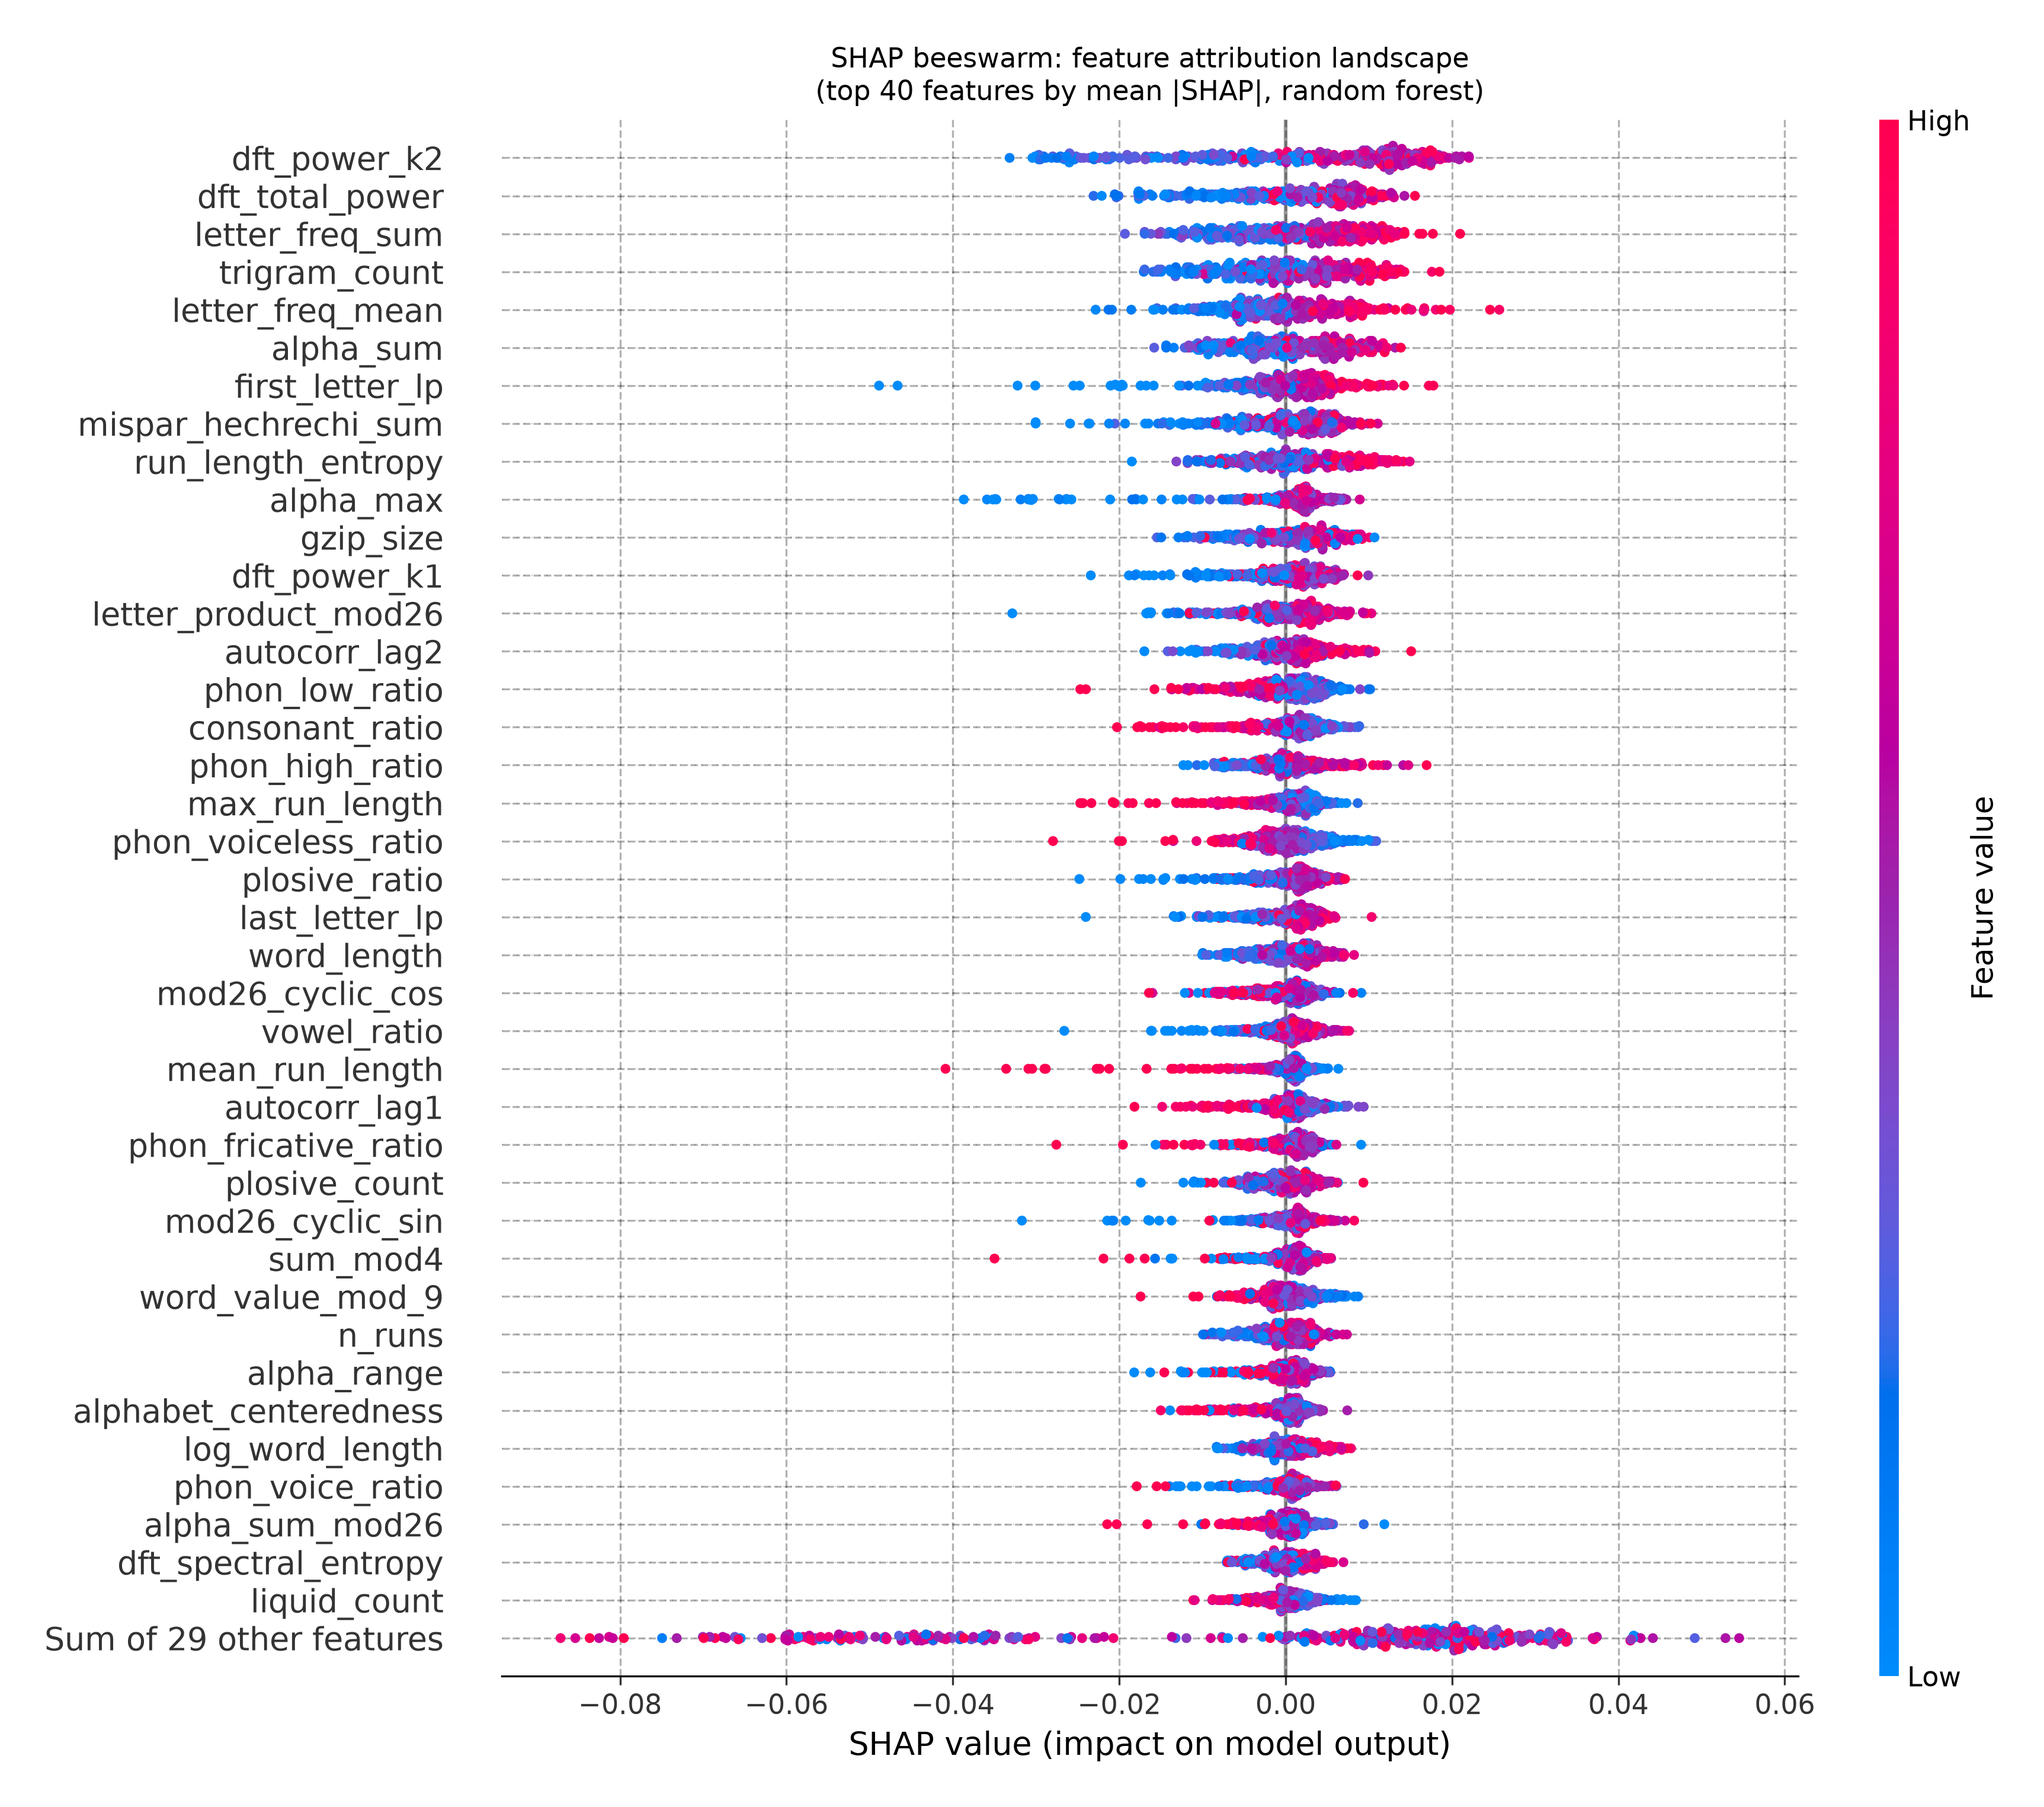
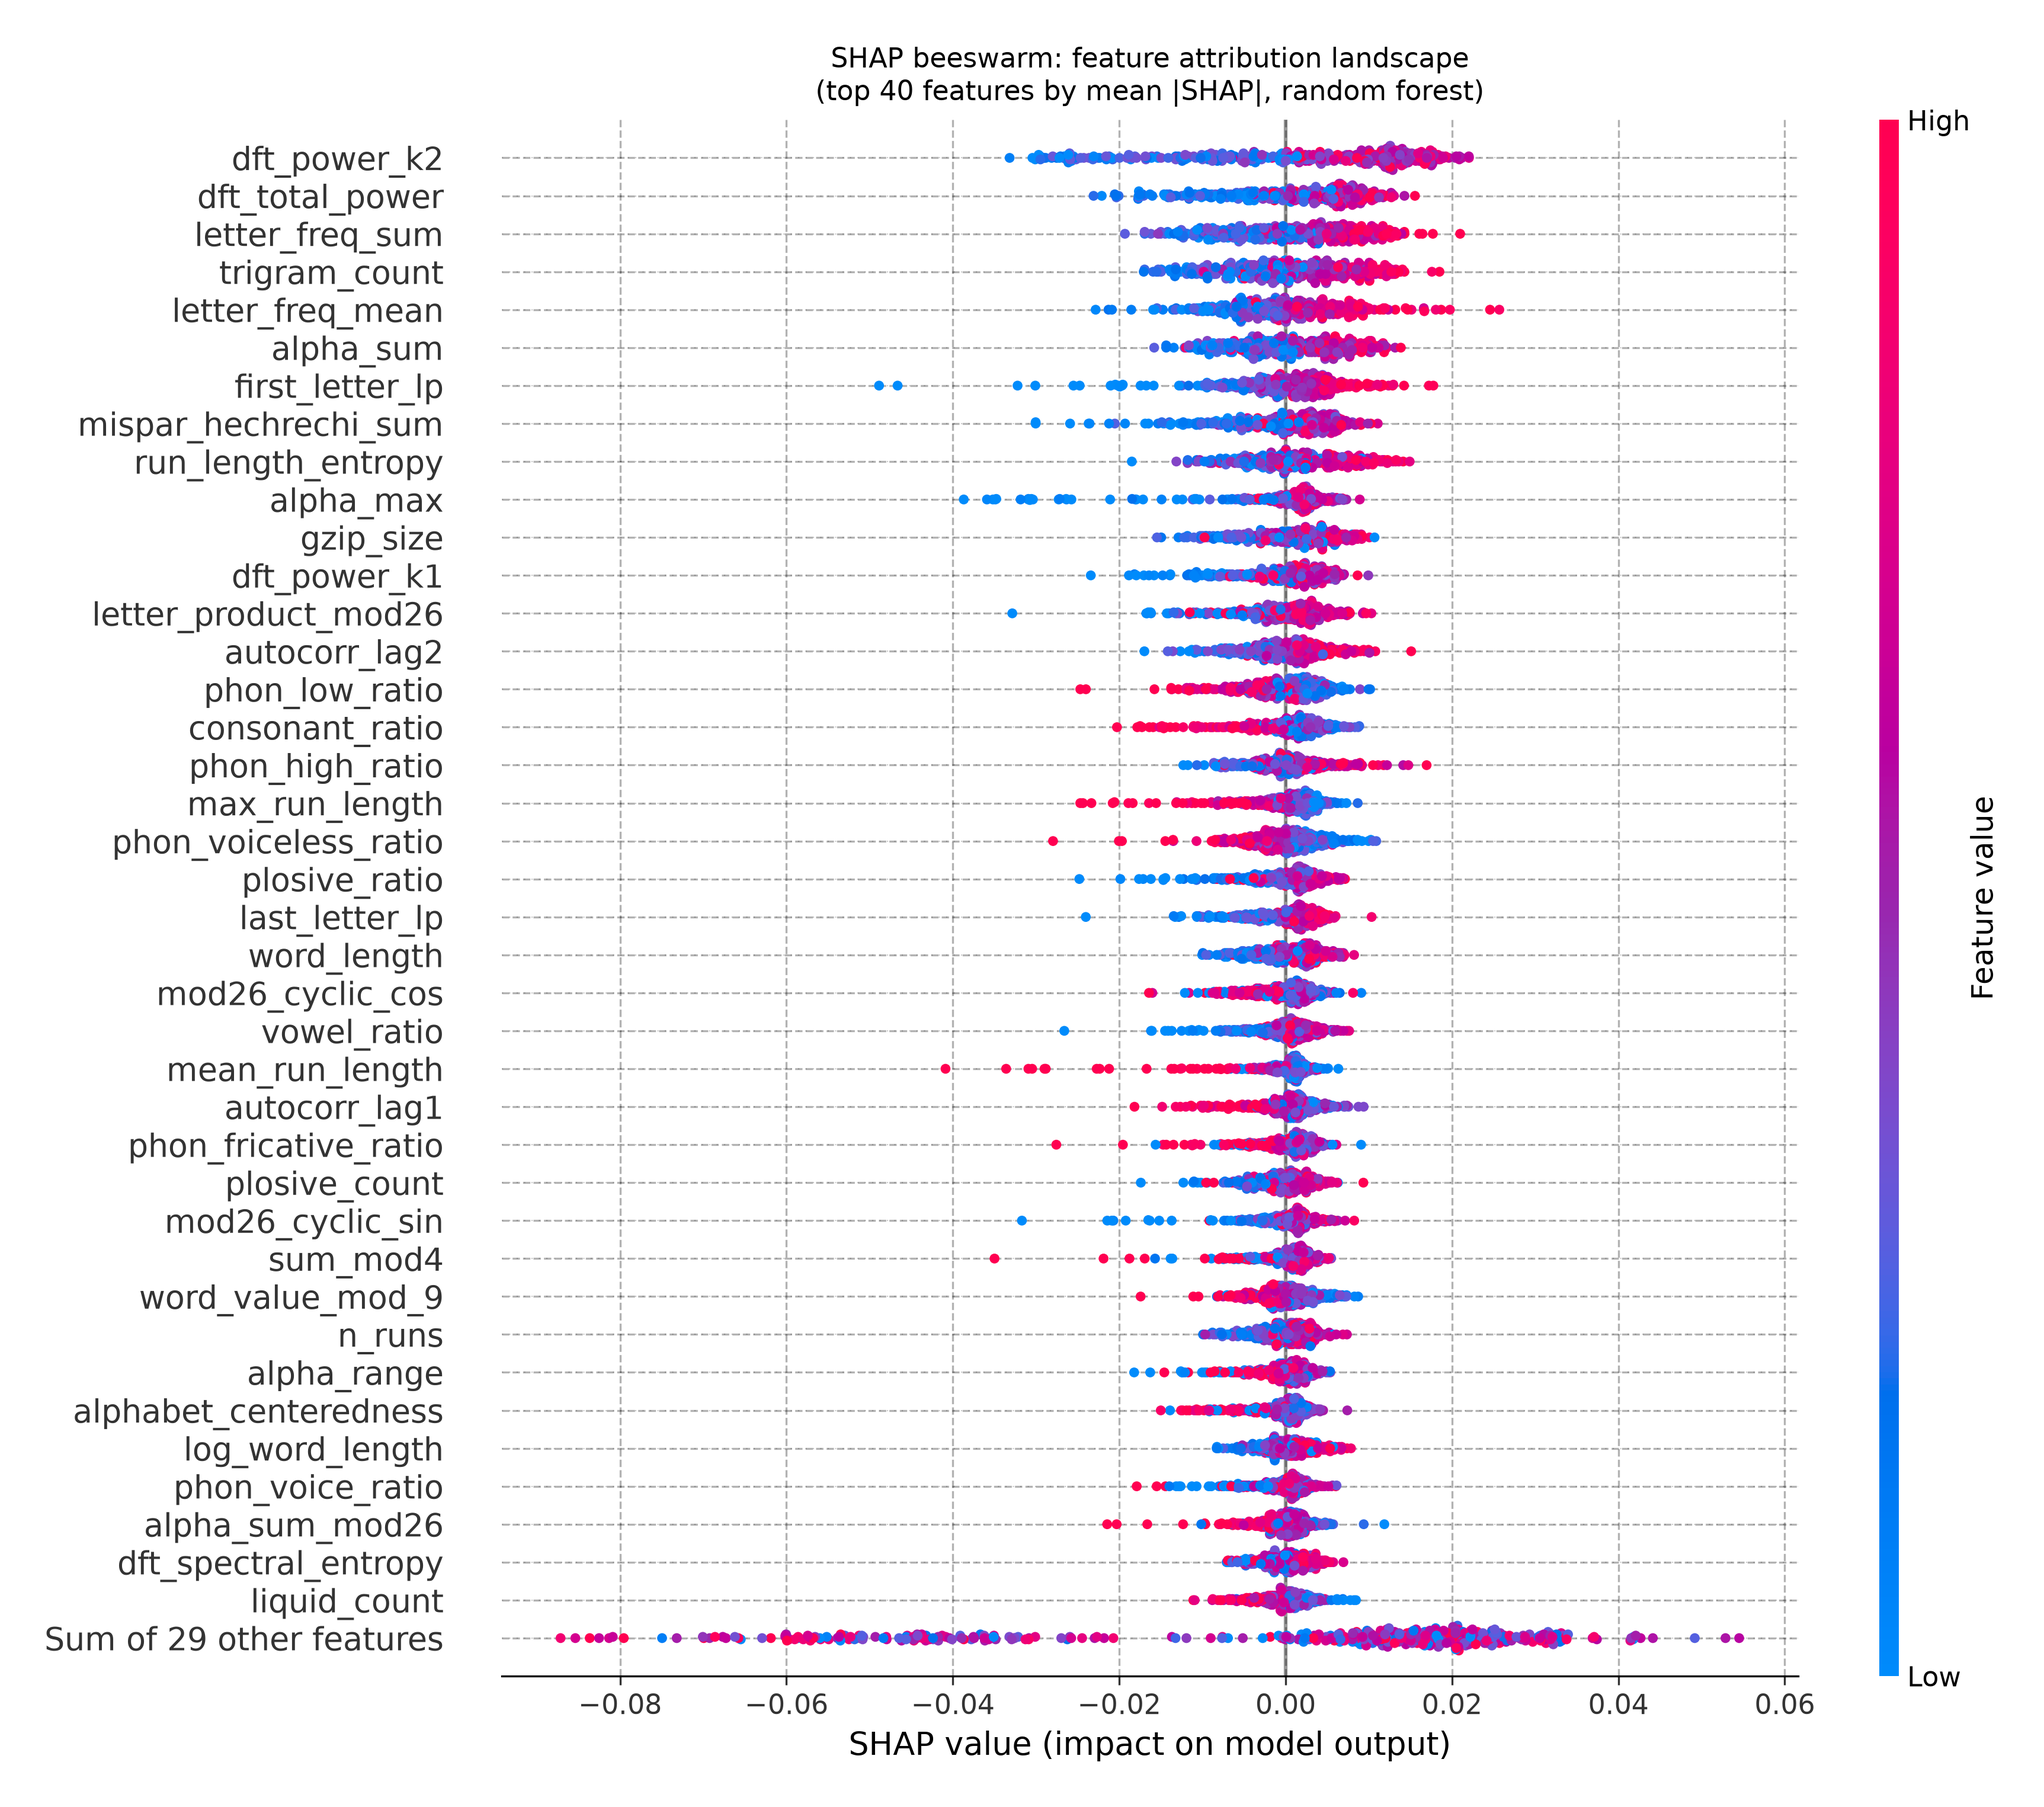
fix(visualise): use PALETTE_PRIMARY/PALETTE_HIGHLIGHT for word-fingerprint colours
Caught by hermes-verify-figures-2026-08-06.py: src/visualise.py still
had #2171b5 / #cb181d hex codes in make_word_fingerprints even though
the local PALETTE_PRIMARY / PALETTE_HIGHLIGHT aliases were defined.
Replace the literal hex codes with the aliases.

Changed region(s): [[0.5583, 0.0623, 0.7754, 0.9344], [0.3722, 0.9033, 0.4962, 0.9344]]

diff --git a/src/visualise.py b/src/visualise.py
@@ -153,8 +153,8 @@ def make_word_fingerprints(pos_words, neg_words, n_bins=32, n_examples=8):
         axes = axes.reshape(2, 1)
 
     x = np.arange(n_bins)
-    pos_color = "#2171b5"
-    neg_color = "#cb181d"
+    pos_color = PALETTE_PRIMARY
+    neg_color = PALETTE_HIGHLIGHT
 
     for ax, word in zip(axes[0], pos_sample):
         mag, _ = dft_spectrum(word, n_bins)
